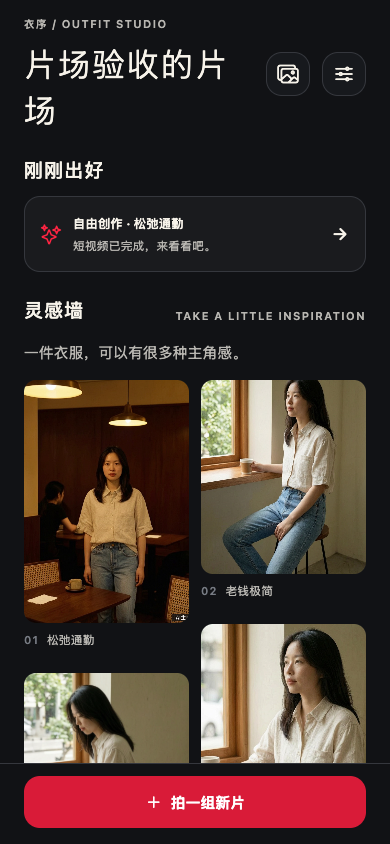
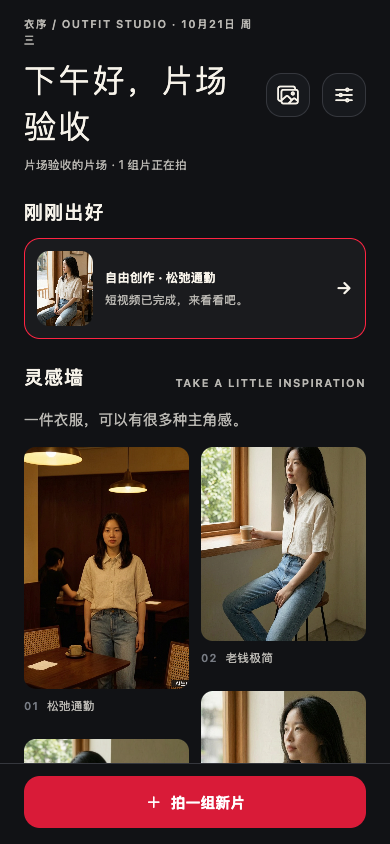
feat(app): 首屏头部改为按时段问候与日期，刚刚出好卡片带封面缩略图

diff --git a/app/src/app/index.tsx b/app/src/app/index.tsx
@@ -90,11 +90,11 @@ export default function Projects() {
   return <Page tone="studio">
     <ScrollView showsVerticalScrollIndicator={false} contentContainerStyle={[styles.content, { paddingTop: space.lg }]} refreshControl={<RefreshControl refreshing={loading && items.length > 0} onRefresh={() => void load()} tintColor={studio.ink} />}>
       <View style={[styles.row, { justifyContent: 'space-between', gap: space.md }]}>
-        <View style={{ flex: 1, gap: space.sm }}><Text style={local.eyebrow}>衣序 / OUTFIT STUDIO</Text><Text style={{ ...type.display, color: studio.ink }}>{user?.nickname ? `${user.nickname}的片场` : '我的片场'}</Text></View>
+        <View style={{ flex: 1, gap: space.sm }}><Text numberOfLines={1} style={local.eyebrow}>衣序 · {dateLabel()}</Text><Text numberOfLines={1} adjustsFontSizeToFit minimumFontScale={0.7} style={{ ...type.display, color: studio.ink }}>{greeting()}{user?.nickname ? `，${user.nickname}` : ''}</Text><View style={[styles.row, { gap: space.xs, flexWrap: 'wrap' }]}><Text style={{ ...type.caption, color: studio.muted }}>{user?.nickname ? `${user.nickname}的片场` : '我的片场'}</Text>{active.length ? <Text style={{ ...type.caption, color: studio.muted }}>· {active.length} 组片正在拍</Text> : null}</View></View>
         <AssetLibraryEntry compact />
         <IconButton name="options-outline" label="设置" onPress={() => router.push('/settings')} />
       </View>
-      {!!completions.length && <View testID="recent-completions" style={{ gap: space.md }}><Text style={local.section}>刚刚出好</Text>{completions.map(item => <Pressable key={`${item.projectId}-${item.jobIds.join('-')}`} accessibilityRole="button" accessibilityLabel={`查看刚刚出好 ${item.title}`} onPress={() => openProject(item.projectId)} style={local.recent}><Ionicons name="sparkles-outline" size={20} color={studio.accent} /><View style={{ flex: 1, gap: space.xs }}><Text style={{ ...type.label, color: studio.ink }}>{item.title}</Text><Text style={{ ...type.caption, color: studio.muted }}>{item.body}</Text></View><Ionicons name="arrow-forward" size={18} color={studio.ink} /></Pressable>)}</View>}
+      {!!completions.length && <View testID="recent-completions" style={{ gap: space.md }}><Text style={local.section}>刚刚出好</Text>{completions.map(item => <Pressable key={`${item.projectId}-${item.jobIds.join('-')}`} accessibilityRole="button" accessibilityLabel={`查看刚刚出好 ${item.title}`} onPress={() => openProject(item.projectId)} style={local.recent}>{(() => { const cover = items.find(project => project.id === item.projectId)?.cover_url; return cover ? <FadeImage source={{ uri: previewUrl(cover, 360) }} style={local.recentCover} resizeMode="cover" /> : <View style={local.recentIcon}><Ionicons name="sparkles-outline" size={20} color={studio.accent} /></View>; })()}<View style={{ flex: 1, gap: space.xs }}><Text style={{ ...type.label, color: studio.ink }}>{item.title}</Text><Text style={{ ...type.caption, color: studio.muted }}>{item.body}</Text></View><Ionicons name="arrow-forward" size={18} color={studio.ink} /></Pressable>)}</View>}
       <AnimatedEntry><View style={{ gap: space.lg }}><View style={[styles.row, { justifyContent: 'space-between', alignItems: 'flex-end' }]}><Text style={local.section}>灵感墙</Text><Text style={local.eyebrow}>TAKE A LITTLE INSPIRATION</Text></View><Text style={{ ...type.body, color: studio.muted }}>一件衣服，可以有很多种主角感。</Text><InspirationWall /></View></AnimatedEntry>
       {!!items.length && <Field label="搜索片场" placeholder="搜索这组片的名称或品牌" value={query} onChangeText={setQuery} returnKeyType="search" />}
       {!!query.trim() && !visibleItems.length && <StatePanel icon="search-outline" title="没有找到这组片。" description="换个名字或品牌再找找。" actionLabel="清空搜索" onAction={() => setQuery('')} />}
@@ -117,11 +117,27 @@ export default function Projects() {
   </Page>;
 }
 
+function greeting(now = new Date()) {
+  const hour = now.getHours();
+  if (hour < 5) return '夜深了';
+  if (hour < 11) return '早上好';
+  if (hour < 14) return '中午好';
+  if (hour < 18) return '下午好';
+  return '晚上好';
+}
+
+function dateLabel(now = new Date()) {
+  const weekday = ['周日', '周一', '周二', '周三', '周四', '周五', '周六'][now.getDay()];
+  return `${now.getMonth() + 1}月${now.getDate()}日 ${weekday}`;
+}
+
 const local = StyleSheet.create({
   eyebrow: { ...type.badge, color: studio.muted, letterSpacing: 1.4 },
   section: { ...type.heading, color: studio.ink, fontWeight: '500', letterSpacing: 1 },
   count: { ...type.caption, color: studio.subtle },
   cover: { width: 64, aspectRatio: layout.thumbnailRatio, borderRadius: radius.sm, backgroundColor: studio.canvas },
-  recent: { padding: space.lg, borderRadius: radius.md, borderWidth: 1, borderColor: studio.line, backgroundColor: studio.glass, flexDirection: 'row', alignItems: 'center', gap: space.md },
+  recent: { padding: space.md, borderRadius: radius.md, borderWidth: 1, borderColor: studio.accent, backgroundColor: studio.glass, flexDirection: 'row', alignItems: 'center', gap: space.md },
+  recentCover: { width: 56, aspectRatio: layout.thumbnailRatio, borderRadius: radius.sm, backgroundColor: studio.canvas },
+  recentIcon: { width: 56, aspectRatio: layout.thumbnailRatio, borderRadius: radius.sm, backgroundColor: studio.softAccent, alignItems: 'center', justifyContent: 'center' },
   footer: { paddingHorizontal: space.xl, paddingTop: space.md, paddingBottom: space.lg, borderTopWidth: 1, borderTopColor: studio.line, backgroundColor: studio.bg },
 });
